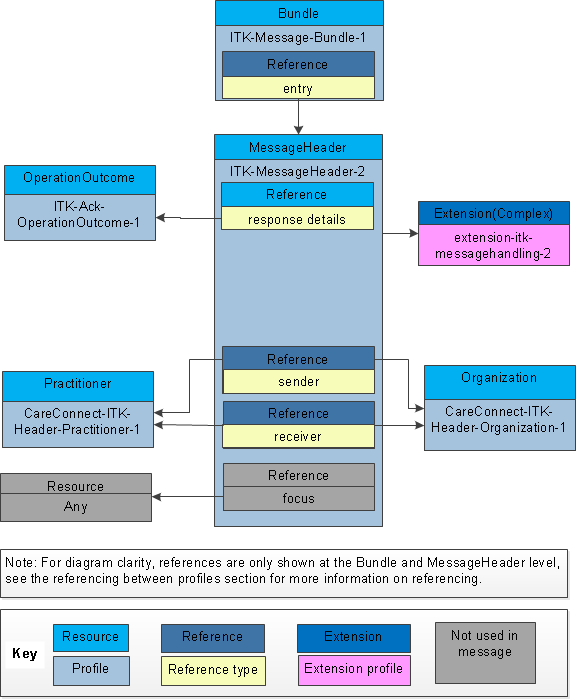
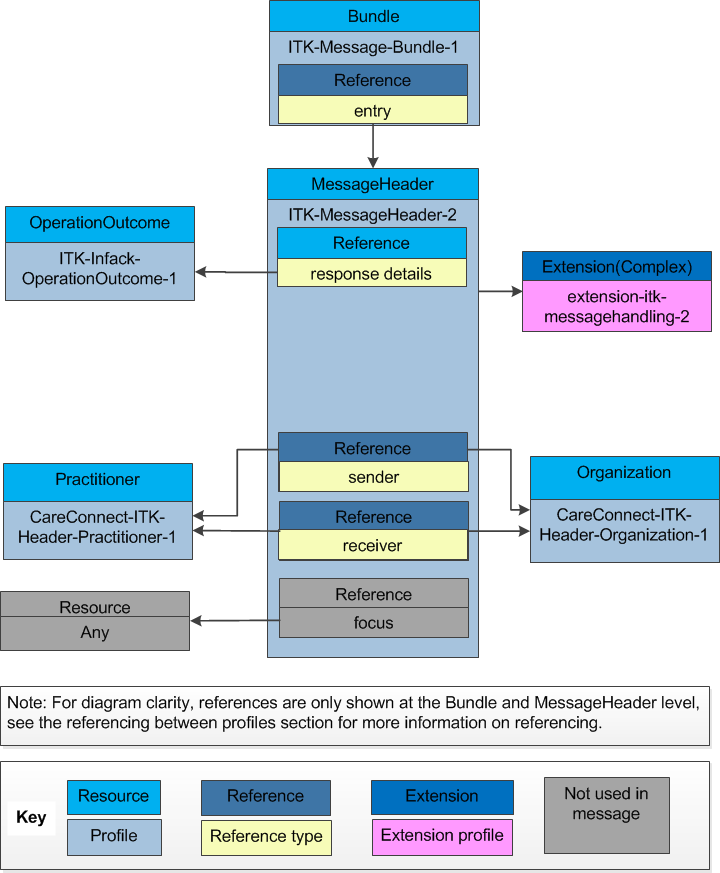
Corrections to OperationOutcome in Bundle Diagrams.

diff --git a/pages/explore/explore_bundle_structures.md b/pages/explore/explore_bundle_structures.md
@@ -109,7 +109,7 @@ The Bundle consists of the following FHIR Resource Profiles.
 ## ITK Business Acknowledgement Bundle Diagram ##
 The diagram shows the referencing between the profiles in the bundle which make up the Business Acknowledgement Response message.
 
-<img src="images/explore/ack_message.png" style="width: 75%;max-width: 75%;"> 
+<img src="images/explore/busack_message.png" style="width: 75%;max-width: 75%;"> 
 
 ## ITK Business Acknowledgement Bundle Success Example ##
 
